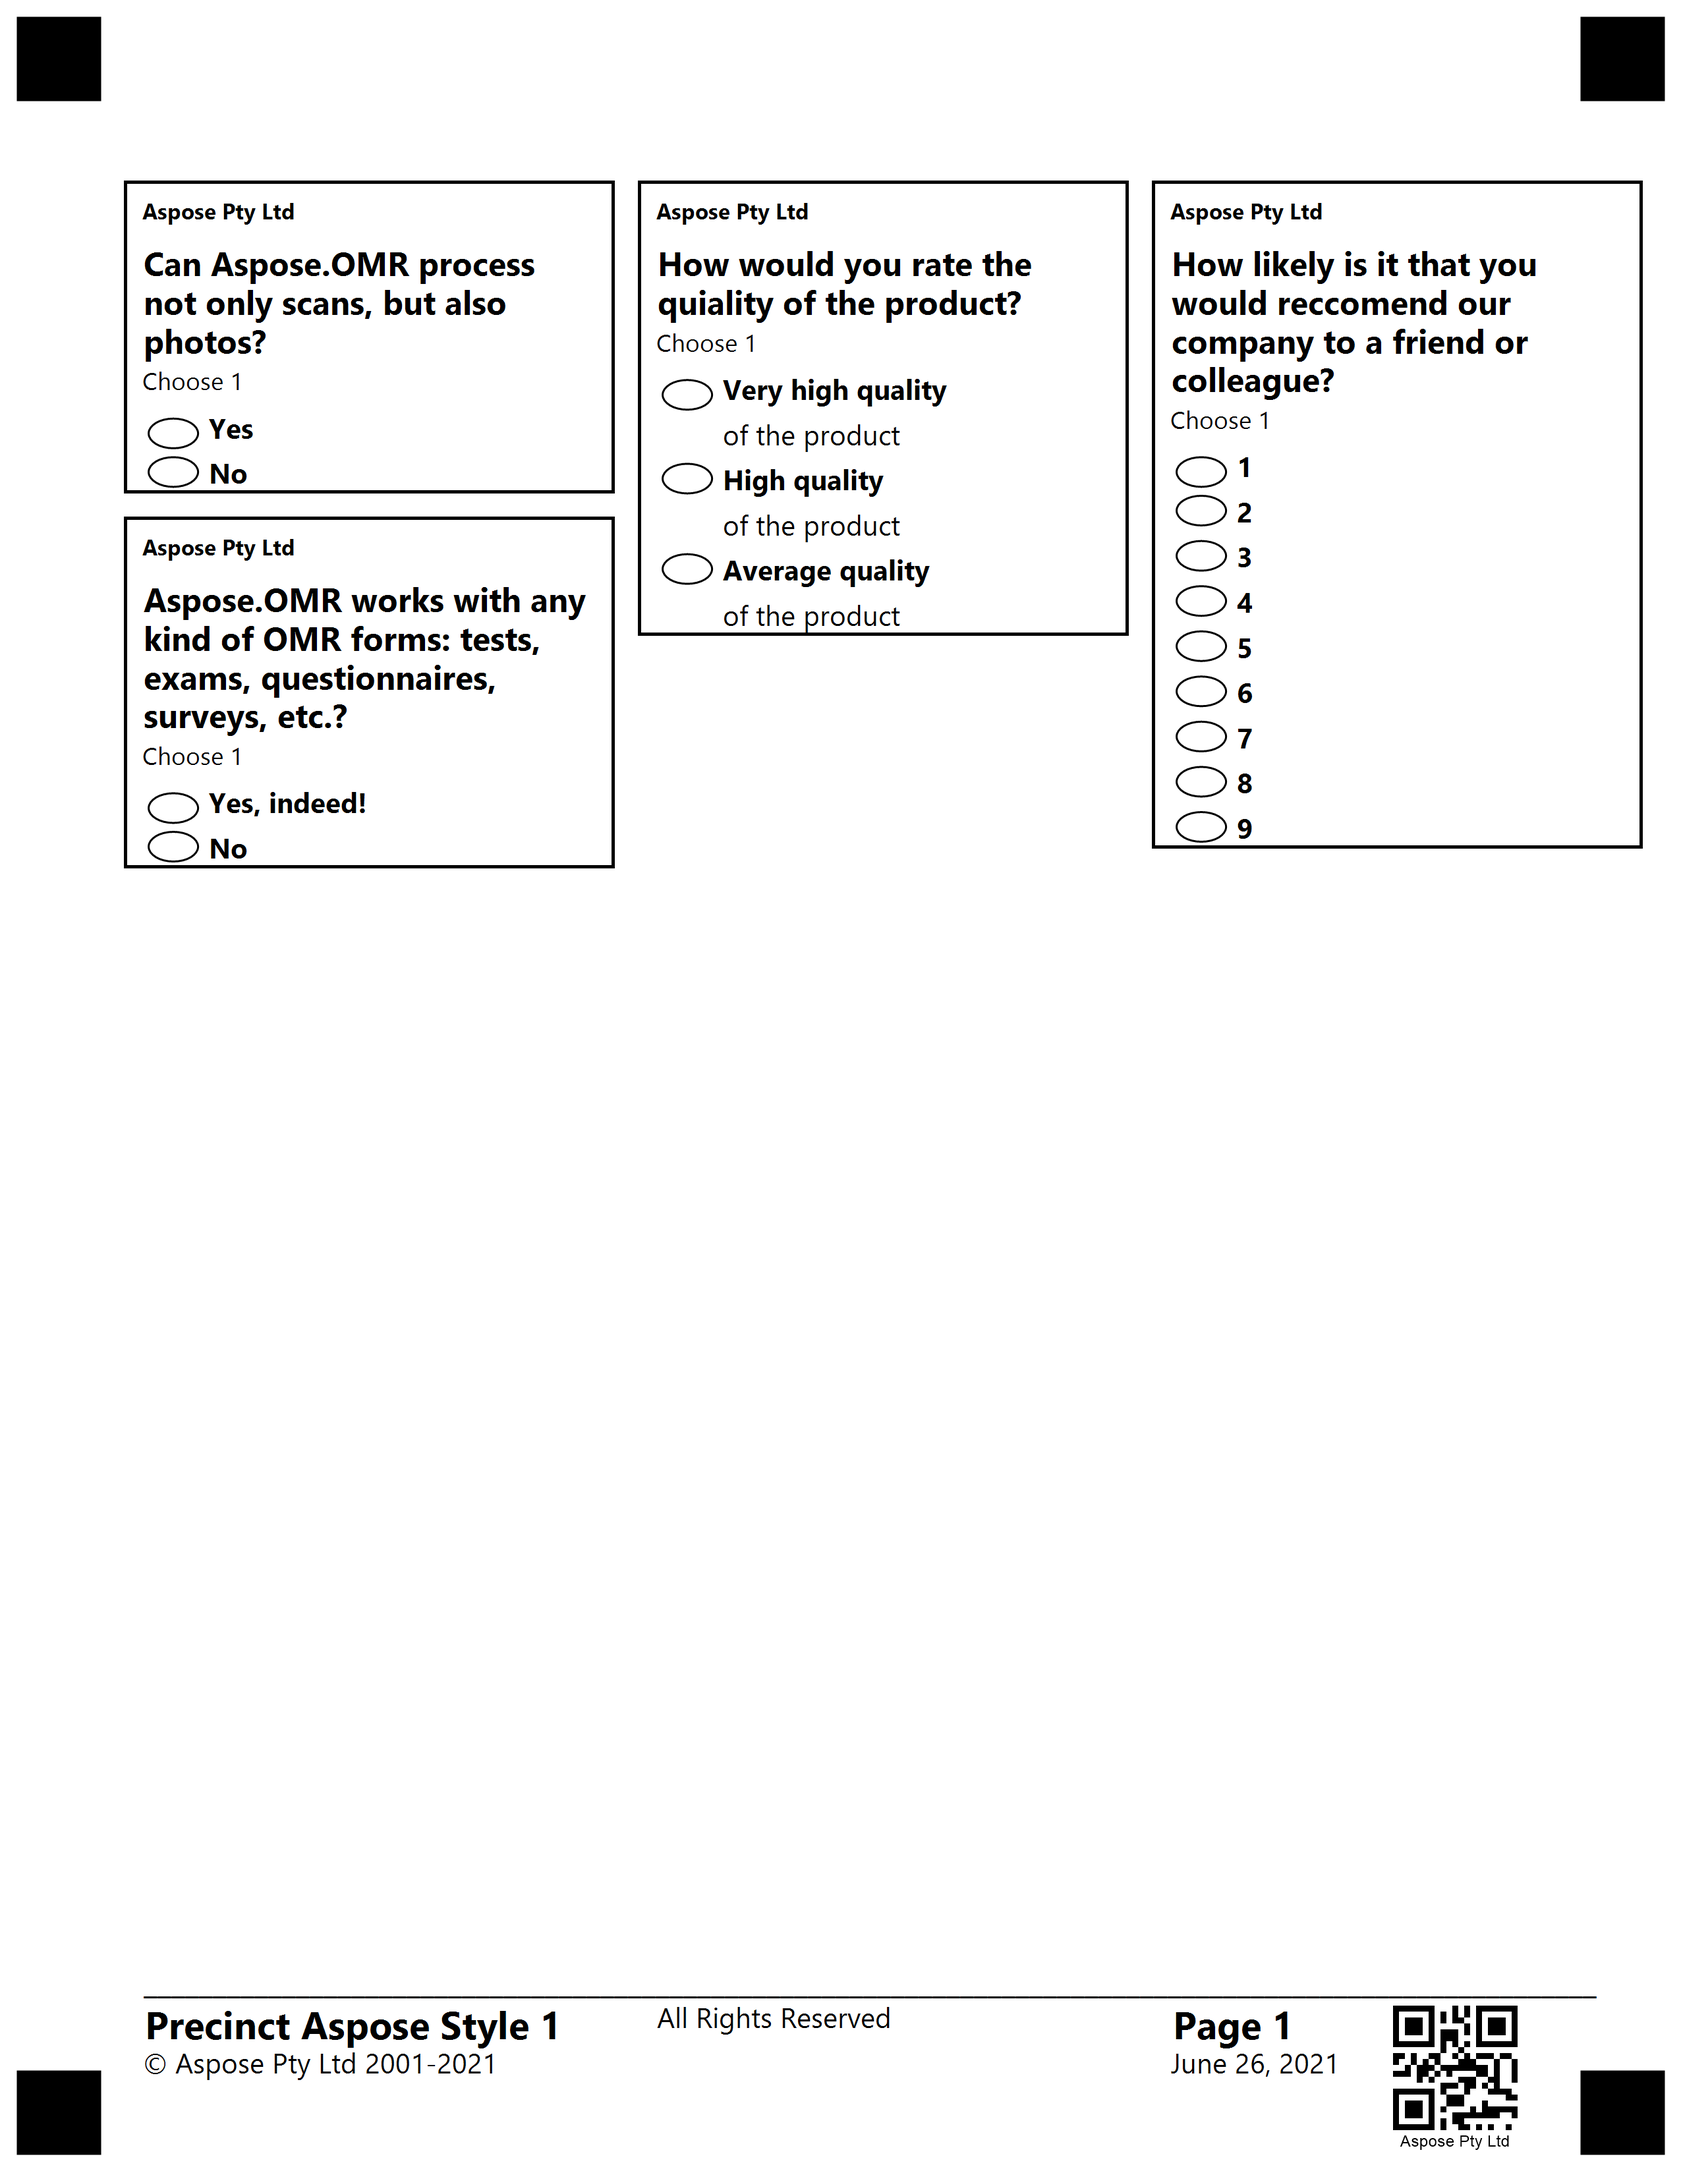
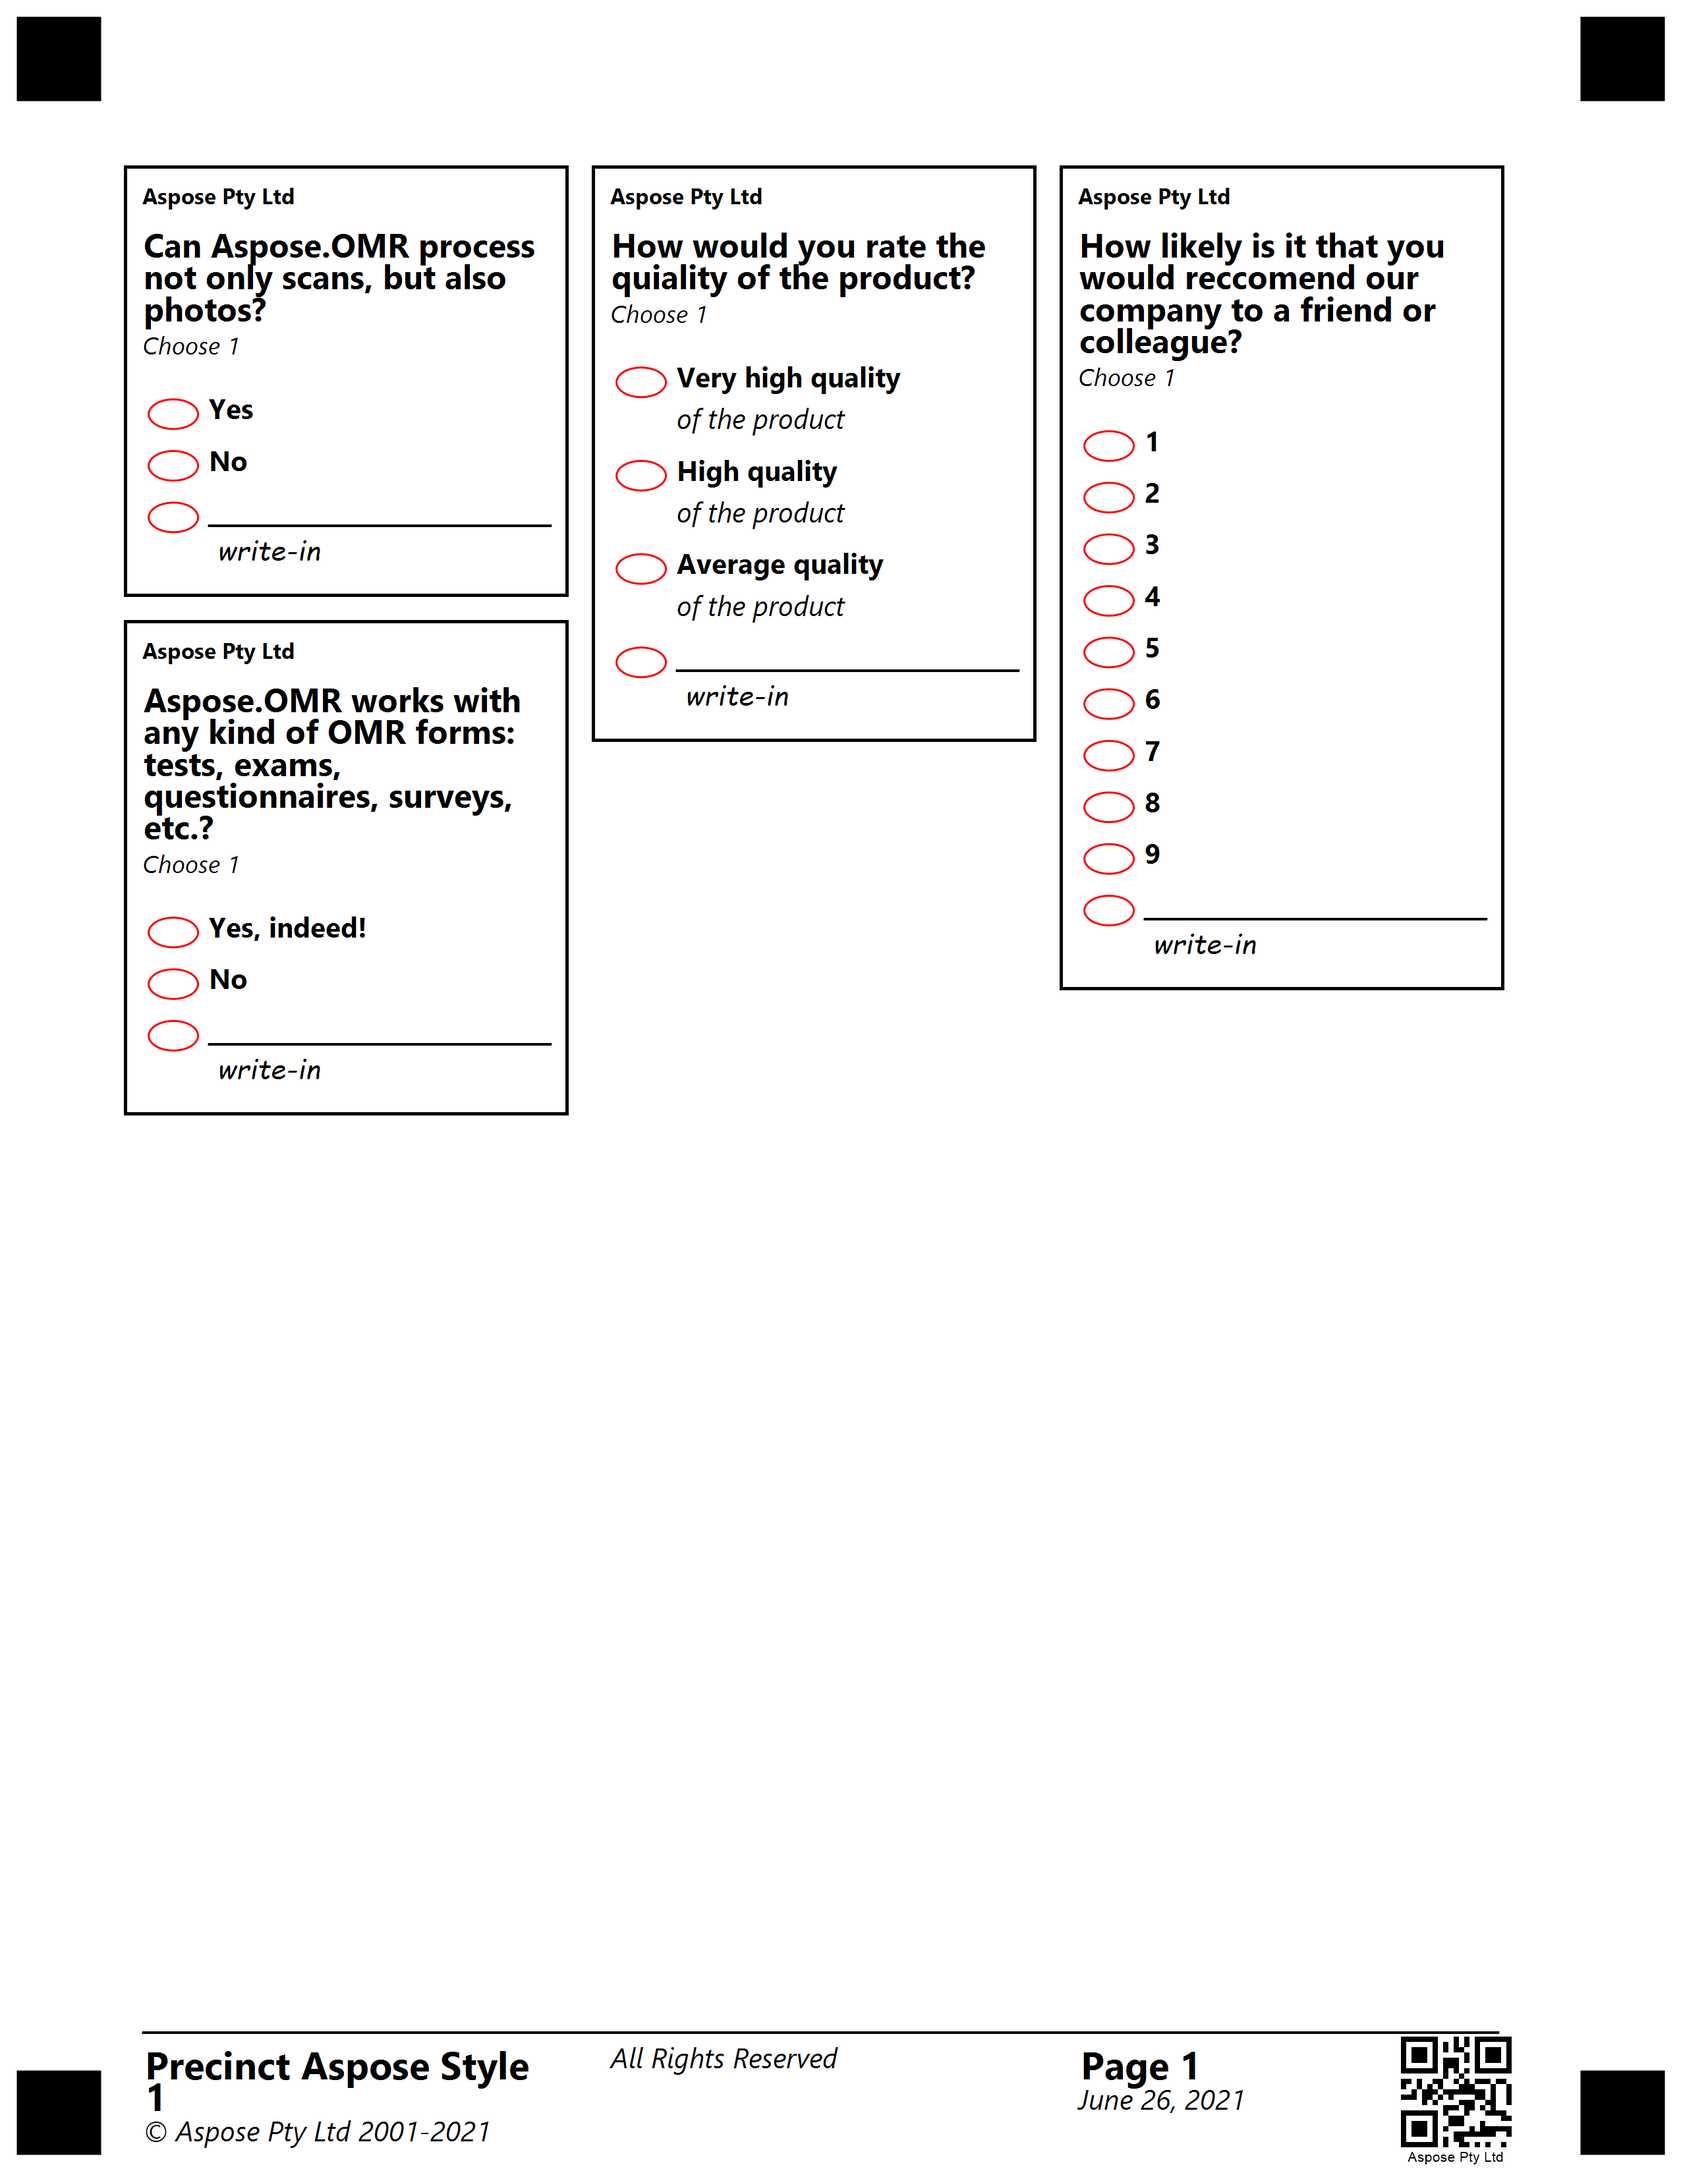
updated multi-column-template

diff --git a/net/developer-guide/template-generation/multi-column-template/index.md b/net/developer-guide/template-generation/multi-column-template/index.md
@@ -196,7 +196,7 @@ Paragraph element can be customized with attributes, each attribute must be on 
 **![todo:image_alt_text](multi-column-template-paragraph.png)**
 
 ## **VerticalChoiceBox element**
-Starts with **?verticalChoiceBox=** prefix that sets the name of the element. The VerticalChoiceBox consists of a response element that contains a short response and Content elements that describe the response option in detail.
+Starts with **?verticalChoiceBox=** prefix that sets the name of the element. The VerticalChoiceBox consists of a Answer element that contains a short response and Content elements that describe the response option in detail. It can also contain a WriteIn element in which the user can enter his own answer.
 Ends with a **&verticalChoiceBox** prefix indicating the end of the element's bounds.
 
 ### **Attributes**
@@ -254,6 +254,37 @@ This element has no additional attributes. 
 **Result**
 
 **![todo:image_alt_text](multi-column-template-verticalChoiceBox.png)**
+
+## **WriteIn element**
+Starts with **?write_in=** prefix that sets the name of the element. The WriteIn element is a field in which the user can enter some data and, if necessary, receive it in the form of a picture. If the WriteIn element is part of the VerticalChoiceBox element, its result is preserved if the user fills the bubble associated with it.
+
+### **Attributes**
+WriteIn element can be customized with attributes, each attribute must be on a new line starting with **\t** (tabulation) symbol.
+|**Element**|**Prefix**|**Attribute**|**Attribute Description**|**Required/Optional**|**Attribute Default Value**|**Attribute Usage Example**|
+| :- | :- | :- | :- | :- | :- | :- |
+|WriteIn|?write_in=|required|Indicates obligatory the clipping of write-in field|Optional|false|required=true|
+
+### **Examples**
+{{< highlight java >}}
+
+?container=1-st
+	columns_count=3
+?block=Process
+	column=1
+?write_in=Process
+	required=true
+&block
+&container
+
+{{< /highlight >}}
+
+**Result**
+
+**![todo:image_alt_text](multi-column-template-write-in.png)**
+
+**Saved result**
+
+**![todo:image_alt_text](multi-column-template-write-in-cropped.png)**
 
 ### **Example for creating multi-column questionnaire**
 
